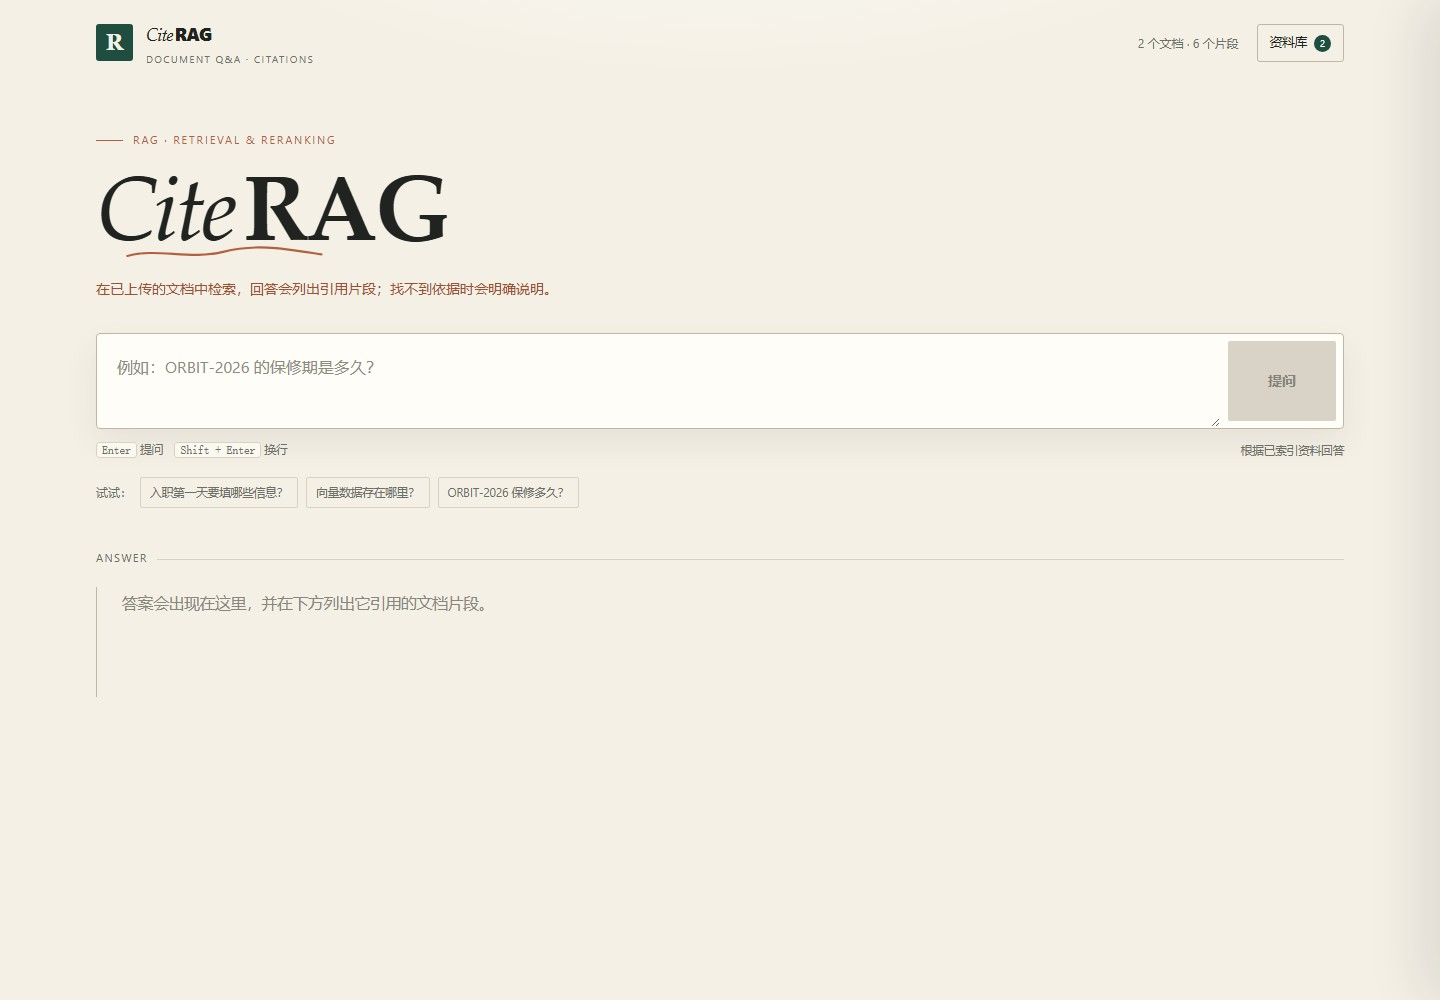
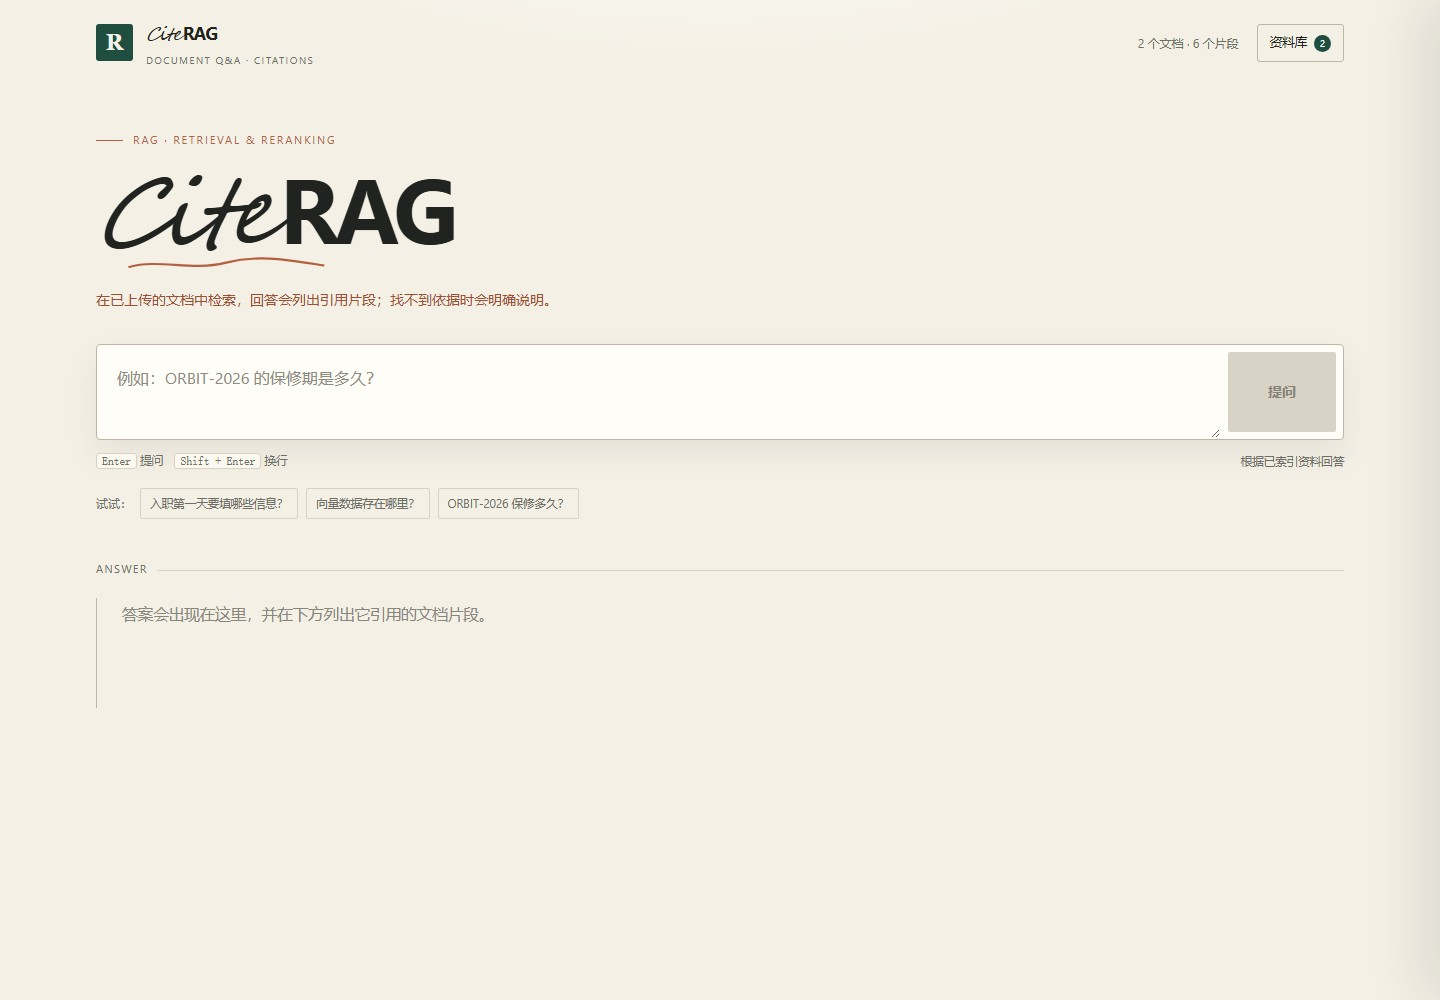
恢复手写 Cite 字标并同步顶部品牌
保留 Cite 手写体与 RAG 粗体，顶部品牌使用同一组合；说明句改为陶土色，移除多余标语行。

diff --git a/static/index.html b/static/index.html
@@ -48,8 +48,8 @@
       font-family: var(--serif); font-size: 22px; font-weight: 700;
     }
     .brand strong { display: flex; align-items: baseline; gap: 2px; font-size: 18px; letter-spacing: -.5px; }
-    .brand .cite { font-family: "Palatino Linotype", Palatino, "Book Antiqua", Georgia, serif; font-style: italic; font-weight: 500; letter-spacing: -0.8px; }
-    .brand .rag { font-weight: 800; letter-spacing: -.8px; }
+    .brand .cite { font-family: "Segoe Script", "Brush Script MT", Georgia, serif; font-style: italic; font-weight: 400; letter-spacing: -0.8px; }
+    .brand .rag { font-weight: 700; letter-spacing: -.8px; }
     .brand small {
       display: block; color: var(--muted); margin-top: 1px;
       font-size: 9.5px; letter-spacing: 1.7px;
@@ -80,10 +80,12 @@
       font-size: clamp(58px, 7vw, 92px);
     }
     .wordmark .cite {
-      font-style: italic; font-weight: 500; letter-spacing: -4px;
+      font-family: "Segoe Script", "Brush Script MT", Georgia, serif;
+      font-style: italic; font-weight: 400; letter-spacing: -5px;
     }
     .wordmark .rag {
-      font-style: normal; font-weight: 700; letter-spacing: -3px;
+      font-family: Inter, "Segoe UI", "Microsoft YaHei", sans-serif;
+      font-style: normal; font-weight: 700; letter-spacing: -5px;
     }
     .signature {
       position: absolute; left: 2px; bottom: -13px; width: 72%; height: 15px;
